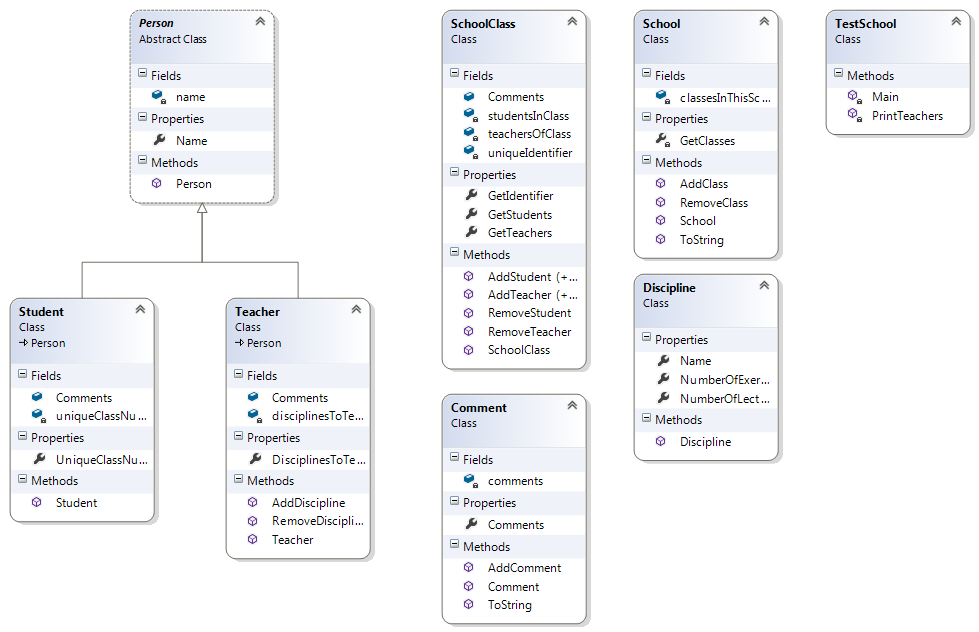
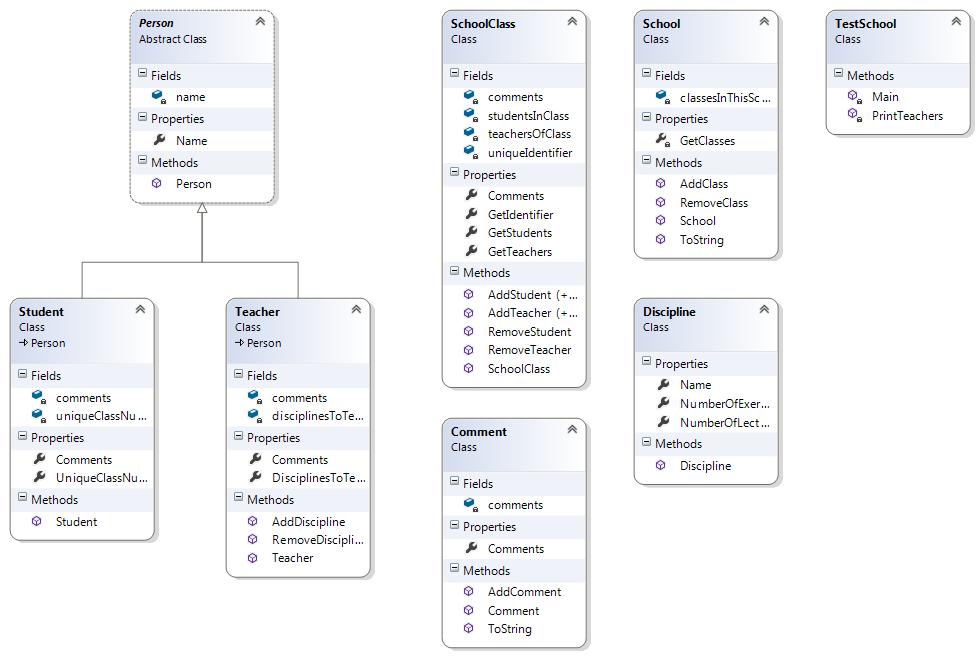
Comment field fix

diff --git a/OOP/PrinciplesPartOne/School/SchoolClass.cs b/OOP/PrinciplesPartOne/School/SchoolClass.cs
@@ -6,8 +6,7 @@
     class SchoolClass
     {
         // Fields
-        public Comment Comments;
-
+        private Comment comments;
         private string uniqueIdentifier;
         private List<Student> studentsInClass;
         private List<Teacher> teachersOfClass;
@@ -15,13 +14,18 @@
         // Constructor
         public SchoolClass(string identifier)
         {
-            this.Comments = new Comment();
+            this.comments = new Comment();
             this.uniqueIdentifier = identifier;
             this.studentsInClass = new List<Student>();
             this.teachersOfClass = new List<Teacher>();
         }
 
         // Properties
+        public Comment Comments
+        {
+            get { return this.comments; }
+        }
+
         public string GetIdentifier
         {
             get { return this.uniqueIdentifier; }

diff --git a/OOP/PrinciplesPartOne/School/Teacher.cs b/OOP/PrinciplesPartOne/School/Teacher.cs
@@ -6,19 +6,23 @@
     class Teacher : Person
     {
         // Fields
-        public Comment Comments;
-
+        private Comment comments;
         private List<Discipline> disciplinesToTeach;
 
         // Constructor
         public Teacher(string name, params Discipline[] disciplines)
             : base(name)
         {
-            this.Comments = new Comment();
+            this.comments = new Comment();
             this.disciplinesToTeach = new List<Discipline>(disciplines);
         }
 
         // Properties
+        public Comment Comments
+        {
+            get { return this.comments; }
+        }
+
         public List<Discipline> DisciplinesToTeach
         {
             get { return new List<Discipline>(this.disciplinesToTeach); }

diff --git a/OOP/PrinciplesPartOne/School/Students.cs b/OOP/PrinciplesPartOne/School/Students.cs
@@ -5,19 +5,23 @@
     public class Student : Person
     {
         // Fields
-        public Comment Comments;
-
+        private Comment comments;
         private int uniqueClassNumber;
 
         // Constructor
         public Student(string name, int uniqueClassNum)
             : base(name)
         {
-            this.Comments = new Comment();
+            this.comments = new Comment();
             this.UniqueClassNumber = uniqueClassNum;
         }
 
         // Properties
+        public Comment Comments
+        {
+            get { return this.comments; }
+        }
+
         public int UniqueClassNumber
         {
             get { return this.uniqueClassNumber; }
